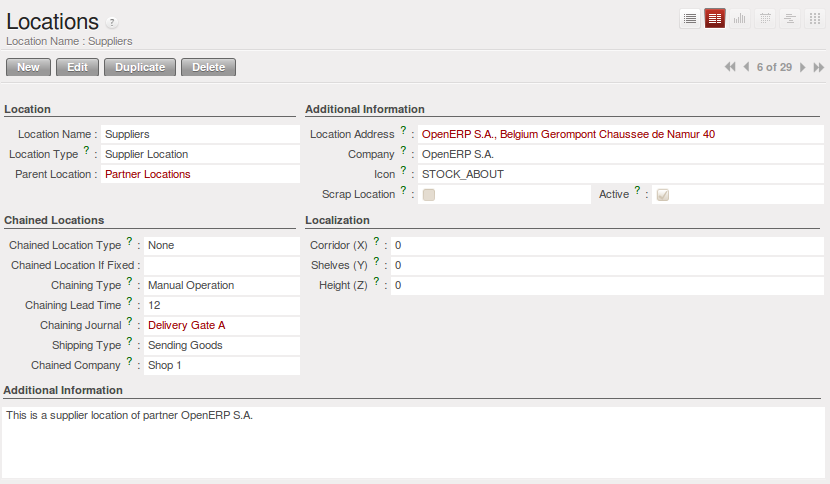
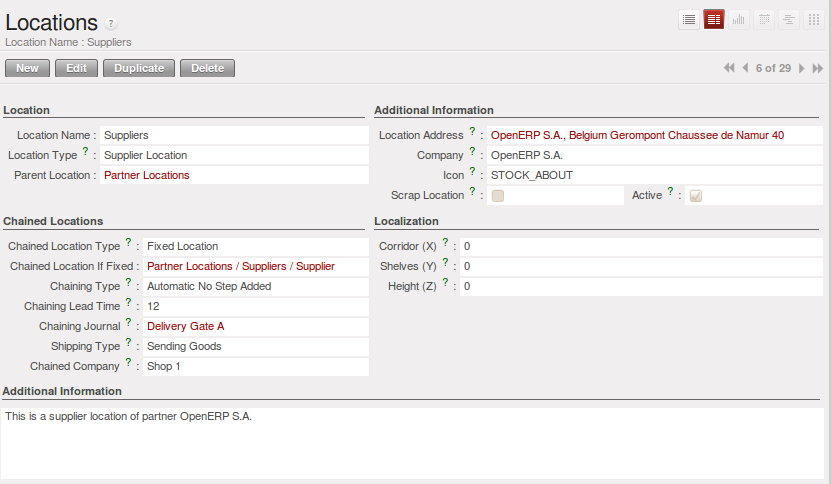
[IMP]: Warehouse : Your Warehouse --> Basic Logistics Configuration --> Linked locations.

diff --git a/5/5_14_Stock/5_14_Stock_logistic.rst b/5/5_14_Stock/5_14_Stock_logistic.rst
@@ -117,7 +117,7 @@ A company has a warehouse in Paris and in Bordeaux. For some orders you must del
 from Paris, and for others from Bordeaux. But you should also specify a fictitious warehouse that
 Open ERP uses to calculate if it should deliver products from Paris or from Bordeaux.
 
-To do this in Open ERP, you'd create a third warehouse 'France' which consolidates the warehouses in
+To do this in Open ERP, you would create a third warehouse 'France' which consolidates the warehouses in
 Paris and Bordeaux. You create the following physical locations:
 
 * Company
@@ -147,10 +147,10 @@ Accounting Valuation in Real Time
 .. index::
    single: accountant
 
-If you have experience of managing with traditional software you'll know the problem of getting
+If you have experience of managing with traditional software you will know the problem of getting
 useful indicators. If you ask your accountant for a stock valuation or the value added by production
-he'll give you a figure. If you ask for the same figure from your stores manager you'll get an
-entirely different amount. You have no idea who's right!
+he will give you a figure. If you ask for the same figure from your stores manager you will get an
+entirely different amount. You have no idea who is right!
 
 In Open ERP the management of stock is completely integrated with the accounts, to give strong
 coherence between the two systems. The double-entry structure of locations enables a very precise
@@ -174,7 +174,7 @@ You use this system for managing consigned stocks:
 
 * a supplier location that is valued in your own accounts or,
 
-* a location in your own company that isn't valued in your accounts.
+* a location in your own company that is not valued in your accounts.
 
 .. index::
    single: chained location
@@ -190,15 +190,14 @@ quality control. The warehouse and quality control are represented by two differ
 Then when a product arrives in a location, Open ERP can automatically suggest that you send the
 product to another linked location. Three link modes are available:
 
-* Manual,
+* Manual Operation
+* Automatic Move
+* Automatic No Step Added
 
-* Automatic,
+The `Manual Operation` mode will create an internal move order to the linked location once products
+arrive in the source locations. This order will wait for a confirmation of the move by a user.
+This enables you to have a list of moves to do, proposed by the system and confirmed by the storesperson.
 
-* Automatic without steps.
-
-The manual mode will create an internal move order to the linked location once products arrive in
-the source locations. This order will wait for a confirmation of the move by a user. This enables
-you to have a list of moves to do, proposed by the system and confirmed by the storesperson.
 
 .. index::
    single: module; stock_location
@@ -213,25 +212,25 @@ you to have a list of moves to do, proposed by the system and confirmed by the s
 
     A more detailed explanation of this module, with examples, is given at the end of this chapter.
 
-The automatic mode will do the same but won't wait for a confirmation from the user. Products will
+The `Automatic Move` mode will do the same but will not wait for a confirmation from the user. Products will
 automatically be sent to the linked location without any intervening manual operation to do. This
 corresponds to the case where, for simplicity, you delete a step in the process so the end user can
 set off the process automatically.
 
-The ``automatic without steps`` mode won't include the additional stock move but will change the
+The `Automatic No Step Added` mode will not include the additional stock move but will change the
 destination move transparently to assign the linked the location. You could then assign a
 destination location to which you send all the products that arrive in your warehouse. The
 storesperson will modify the goods receipt note.
 
-If there is a linkage to do, the field :guilabel:`Type of linked location` lets the destination
+If there is a linkage to do, the field :guilabel:`Chained Location Type` lets the destination
 location be determined. If the field is set to 'customer', the location is given by the properties
 of the partner form. If the field is set to ``fixed`` , the destination location is given by the field
-:guilabel:`Location if link is fixed`.
+:guilabel:`Chained Location If Fixed`.
 
 Some operations take a certain time between order and execution. To account for this lead time, you
-can set a value in days in the field :guilabel:`Link lead time`. Then the extra move (automatic or
-not) will be carried out several days after the original move. If you use the mode ``automatic
-without steps``, the lead time is inserted directly into the initial order. In this way you can add
+can set a value in days in the field :guilabel:`Chaining Lead Time`. Then the extra move (automatic or
+not) will be carried out several days after the original move. If you use the mode `Automatic No Step Added`,
+the lead time is inserted directly into the initial order. In this way you can add
 security lead times at certain control points in the warehouse.
 
 Case of structuring locations
